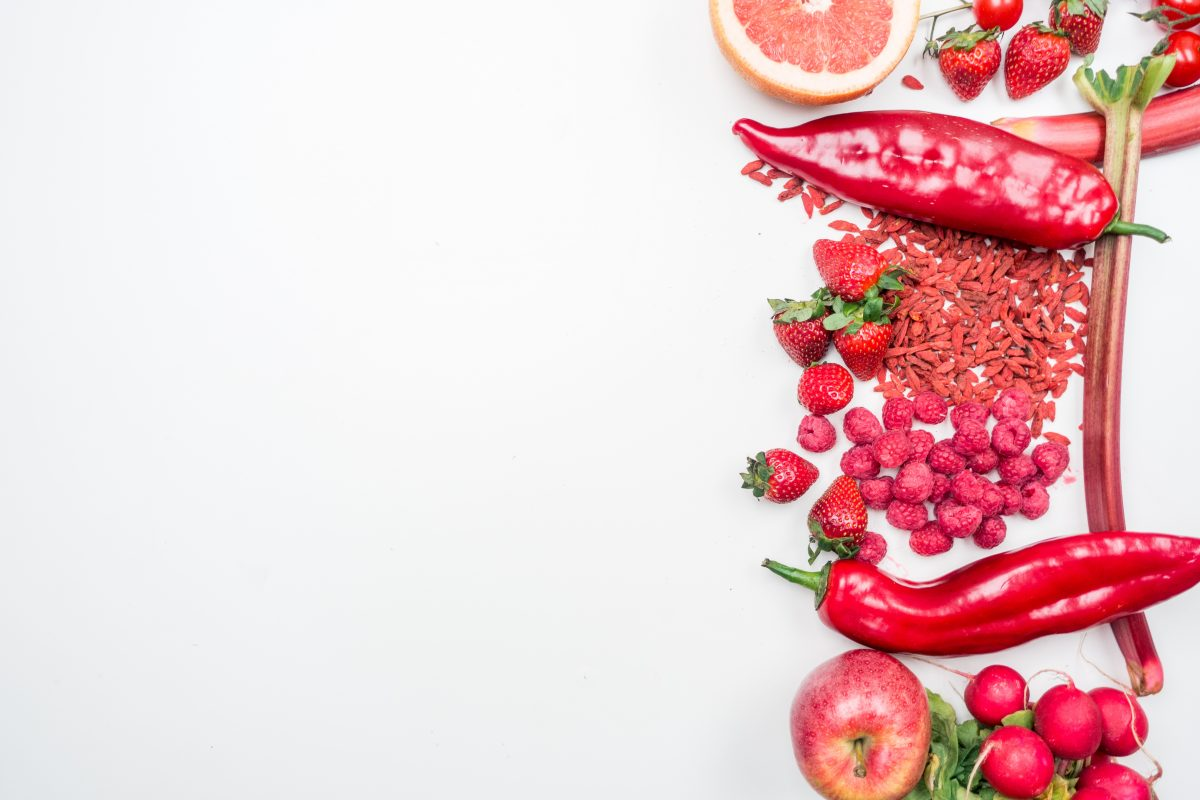
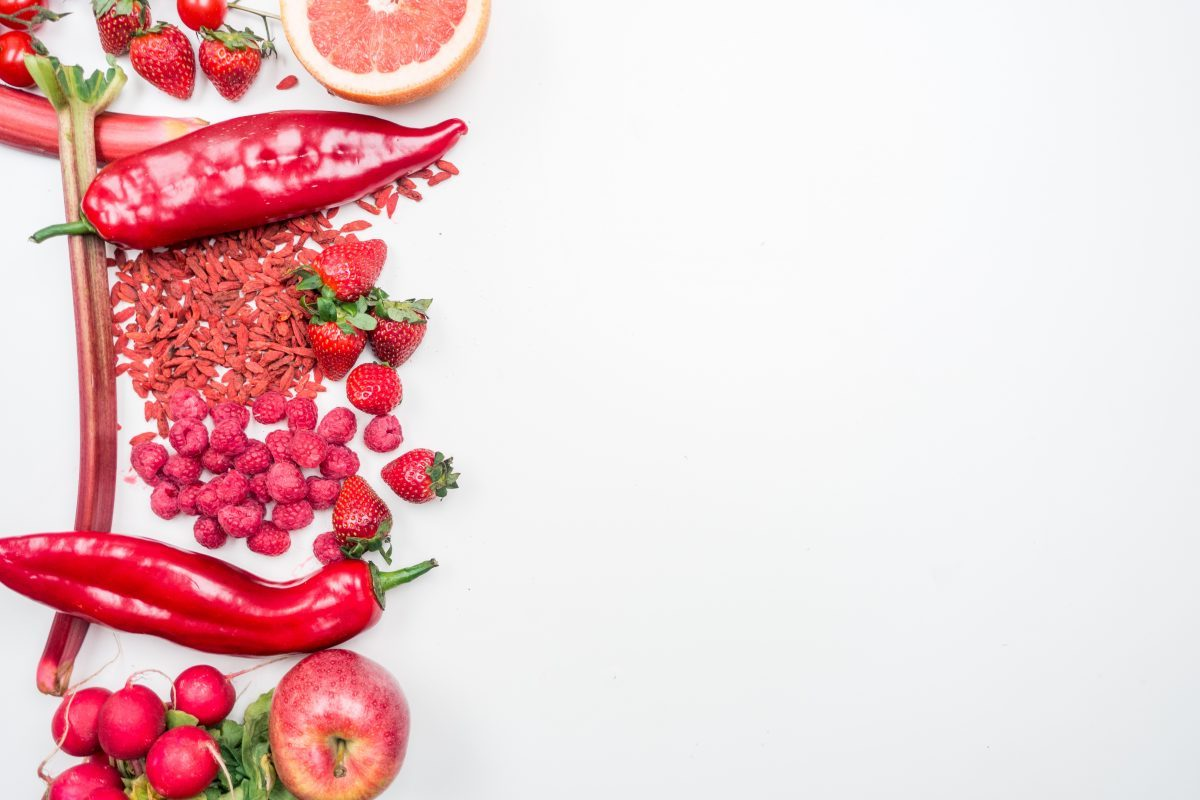
Background Change

diff --git a/client/src/components/Login.js b/client/src/components/Login.js
@@ -240,7 +240,7 @@ export default class Login extends React.Component {
       />
   );
 
-  var backgroundURL = require("../resources/background7.jpeg");
+  var backgroundURL = require("../resources/background1-clean.png");
 
     return (
       <div className="Login" style={{  backgroundColor: "#dde7ec", backgroundImage: `url(${backgroundURL})`, backgroundSize: 'cover', backgroundRepeat: "no-repeat", minHeight: "100vh", height: "100%" }}>
@@ -323,7 +323,7 @@ export default class Login extends React.Component {
           </label>
           <ColoredLine color =  "#E98074"/>
             <Row>
-              <Col>Which State are you in?</Col>
+              <Col><strong>Which State are you in?</strong></Col>
               <Col>
                 <Select
                   options={this.state.statesList}
@@ -338,7 +338,7 @@ export default class Login extends React.Component {
               </Col>
             </Row>
             <Row>
-              <Col>Choose the cities near you!</Col>
+              <Col><strong>Choose the cities near you!</strong></Col>
               <Col>
                 <Select
                   options={this.state.cityList}
@@ -355,7 +355,7 @@ export default class Login extends React.Component {
                 <strong>Health:</strong>
                 <div class="row">
               <div class="col-6">
-                <label>Weight</label>
+                <label><strong>Weight</strong></label>
               </div>
               <div class="col-6">
                 <input type="number" class="form-control" value={this.state.weight} onChange={this.handleWeightChange} />
@@ -363,7 +363,7 @@ export default class Login extends React.Component {
             </div>
             <div class="row">
               <div class="col-6">
-                <label>Height Feet</label>
+                <label><strong>Height Feet</strong></label>
               </div>
               <div class="col-6">
                 <input type="number" class="form-control" value={this.state.heightFeet} onChange={this.handleHeightFeetChange} />
@@ -371,7 +371,7 @@ export default class Login extends React.Component {
             </div>
             <div class="row">
               <div class="col-6">
-                <label>Height Inches</label>
+                <label><strong>Height Inches</strong></label>
               </div>
               <div class="col-6">
                 <input type="number" class="form-control" value={this.state.heightInches} onChange={this.handleHeightInchesChange} />
@@ -379,7 +379,7 @@ export default class Login extends React.Component {
             </div>
             <div class="row">
               <div class="col-6">
-                <label>Activity Level (low, moderate, high)</label>
+                <label><strong>Activity Level (low, moderate, high)</strong></label>
               </div>
               <div class="col-6">
                 <input type="text" class="form-control" value={this.state.activityLevel} onChange={this.handleActivityLevelChange} />
@@ -387,7 +387,7 @@ export default class Login extends React.Component {
             </div>
             <div class="row">
               <div class="col-6">
-                <label>Age</label>
+                <label><strong>Age</strong></label>
               </div>
               <div class="col-6">
                 <input type="number" pattern="[0-9]*" class="form-control" value={this.state.age} onChange={this.handleAgeChange} />
